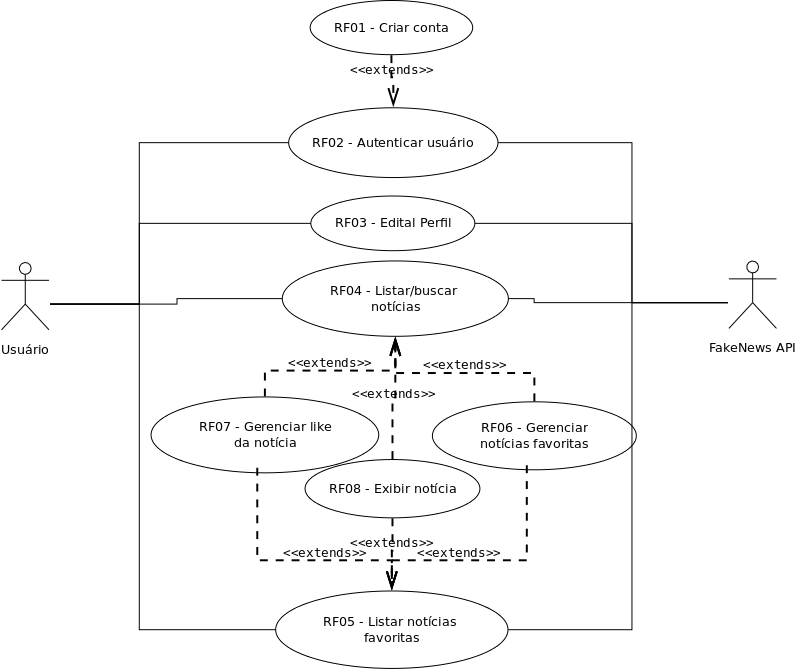
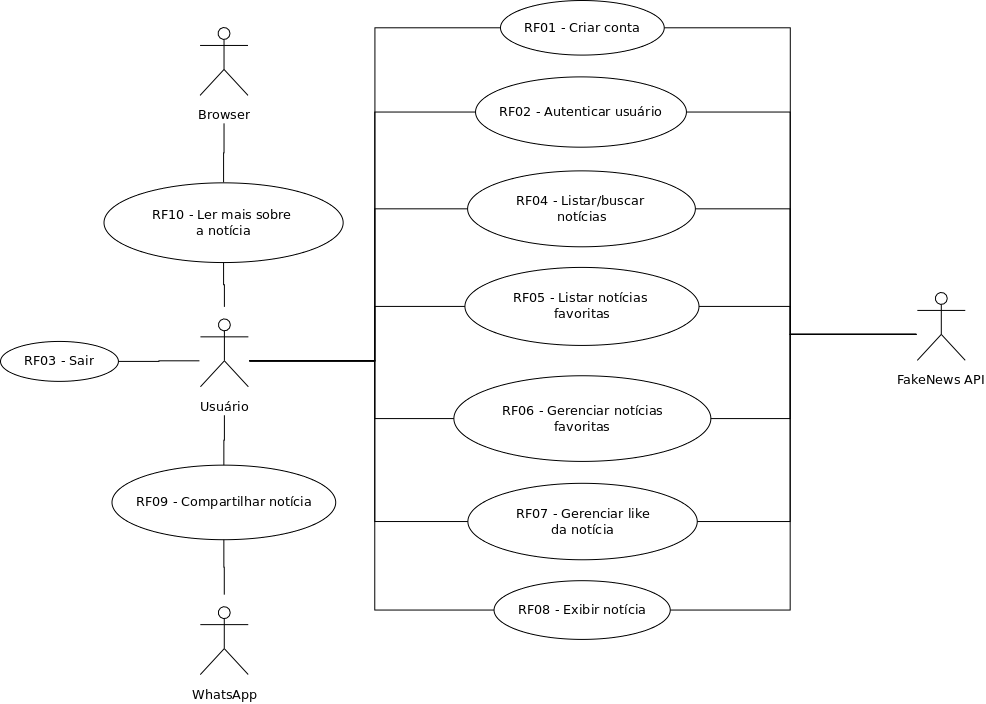
atualizando readme

diff --git a/README.md b/README.md
@@ -1,7 +1,8 @@
 # FakeNewsApp
 Aplicativo móvel de combate à propagação de notícias falsas - *fake news*. Com este aplicativo, o usuário poderá: 
-* encontrar as principais notícias falsas divulgadas por meio da Internet, juntamente com os motivos para serem consideradas falsas; e 
-* favoritar notícias de seu interesse para facilitar o acesso posterior a elas.
+* *encontrar* as principais notícias falsas divulgadas por meio da Internet, juntamente com os motivos para serem consideradas falsas; 
+* *favoritar* notícias de seu interesse, com o intuito de facilitar o acesso posterior a elas; e
+* *compartilhar* notícias com outros usuários, por meio do aplicativo WhatsApp.
 
 **Equipe de Desenvolvimento**: Paulo Afonso
 
@@ -10,7 +11,7 @@ Aplicativo móvel de combate à propagação de notícias falsas - *fake news*. 
 * *FakeNews API*: responsável por gerir os dados exibidos no aplicativo (notícias, likes, entre outros).
 
 **Diagrama de casos de uso**:
-![Diagrama de casos de uso do aplicativo](https://github.com/gcc132-mis/fakenewsapp/blob/master/casos-de-uso-fakenewsappv3.png)
+![Diagrama de casos de uso do aplicativo](https://github.com/gcc132-mis/fakenewsapp/blob/aula2/casos-de-uso-fakenewsapp.png)
 
 **Links úteis**:
 * [Documento de requisitos](https://github.com/gcc132-mis/fakenewsapp/issues)
